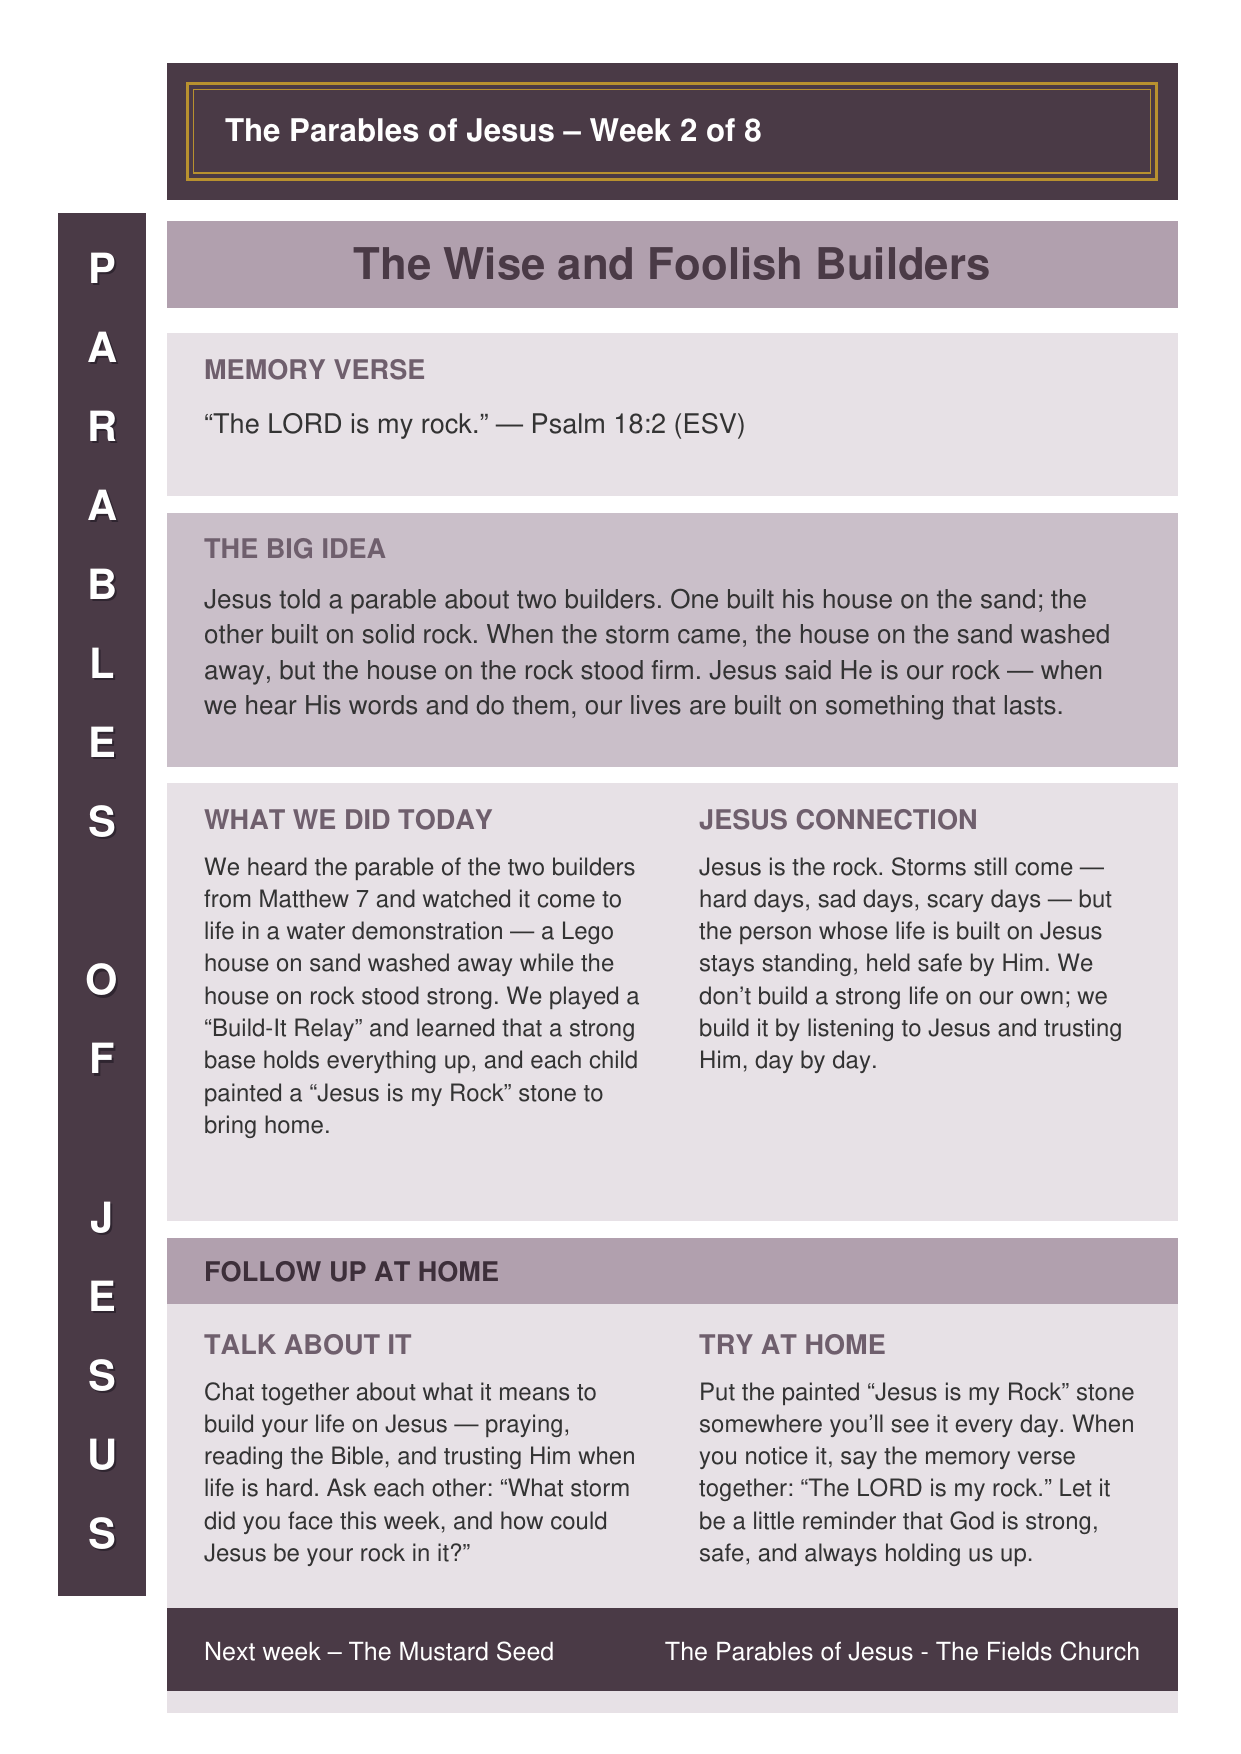
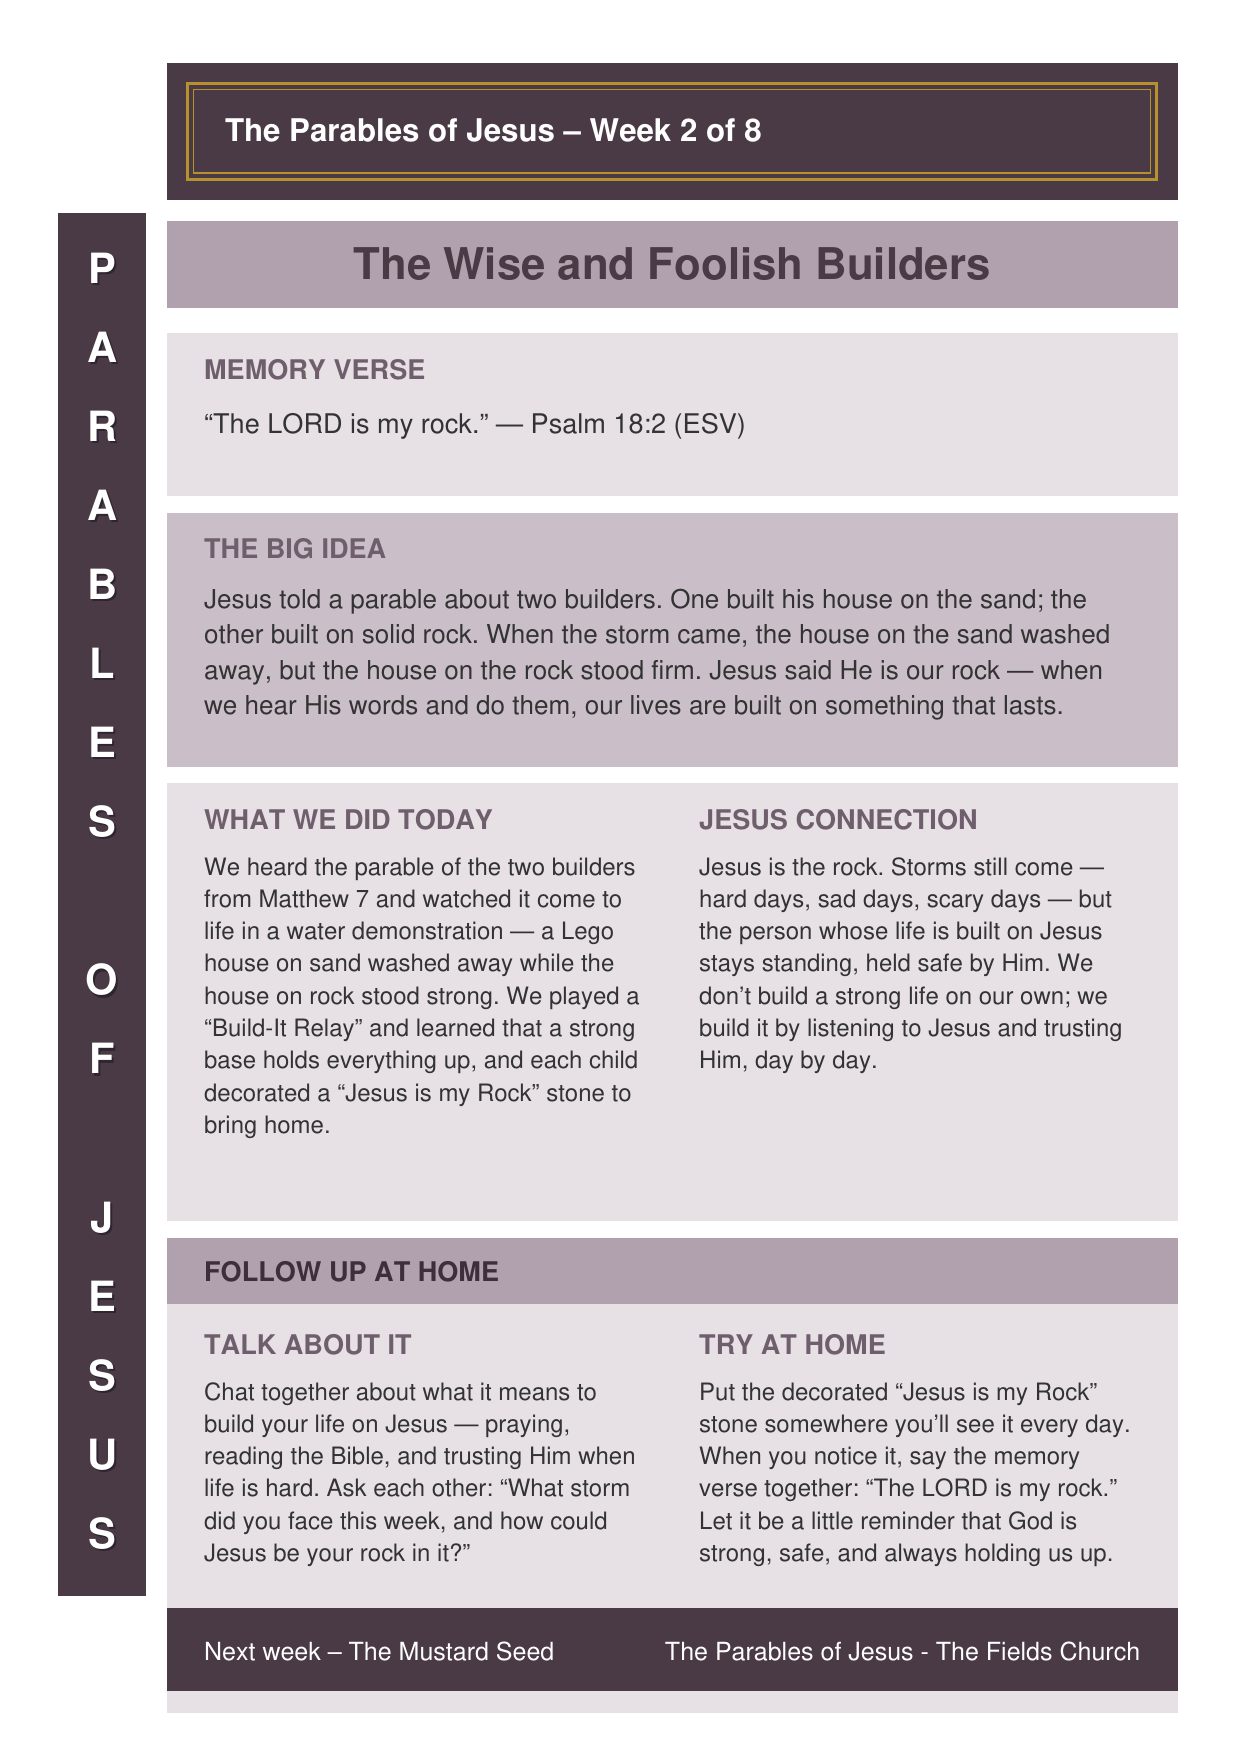
Update craft

Changed region(s): [[0.5512, 0.7697, 0.9186, 0.8928], [0.1837, 0.6157, 0.4899, 0.6465]]

diff --git a/Parables-of-Jesus/week-2.html b/Parables-of-Jesus/week-2.html
@@ -220,7 +220,7 @@
     <div class="segment seg-craft">
       <div class="segment-header">
         <div class="seg-icon">&#127912;</div>
-        <div class="seg-header-title">Craft &ndash; &ldquo;Jesus is my Rock&rdquo; Painted Stone</div>
+        <div class="seg-header-title">Craft &ndash; &ldquo;Jesus is my Rock&rdquo; Decorated Stone</div>
         <div class="seg-time">10 min</div>
       </div>
       <div class="segment-body">
@@ -298,31 +298,36 @@
             setBtn();
           })();
         </script>
-        <p style="margin-top:14px;">Each child paints a real stone and glues it onto a verse card to take home &mdash;
-          a solid little reminder that <strong>Jesus is our rock.</strong></p>
+        <p style="margin-top:14px;">Each child decorates a real stone with coloured markers and sticks it onto a verse
+          card to take home &mdash; a solid little reminder that <strong>Jesus is our rock.</strong></p>
+
+        <div class="leader-note"><strong>Time-saver:</strong> We&rsquo;re using coloured permanent markers rather than
+          paint so there&rsquo;s no waiting for anything to dry &mdash; the children can decorate and stick their stone
+          down straight away.</div>
 
         <h3>Before the Session</h3>
         <ul>
-          <li>Collect a smooth, flat-ish stone for each child (big enough to paint, small enough to glue on a card).</li>
+          <li>Collect a smooth, flat-ish stone for each child (big enough to decorate, small enough to stick on a
+            card).</li>
           <li>Print the verse cards (below) onto stiff card, one per child, and have strong glue (PVA or a glue dot)
             ready.</li>
-          <li>Set out paints or paint pens and cover the table.</li>
+          <li>Set out coloured permanent markers and cover the table.</li>
         </ul>
 
         <h3>Materials (per child)</h3>
         <ul>
           <li>One smooth stone</li>
-          <li>Paints or paint pens and a brush</li>
+          <li>Coloured permanent markers</li>
           <li>A printed &ldquo;Jesus is my Rock&rdquo; verse card (on stiff card)</li>
           <li>Strong glue or a glue dot</li>
         </ul>
 
         <h3>Steps</h3>
         <ol>
-          <li>Paint and decorate the stone however you like &mdash; the older children could add the word
-            &ldquo;ROCK&rdquo; or a cross.</li>
-          <li>Let it dry for a few minutes (this is a good moment to say the memory verse together).</li>
-          <li>Glue the painted stone onto the verse card, in the space provided.</li>
+          <li>Decorate the stone however you like with the coloured markers &mdash; the older children could add the
+            word &ldquo;ROCK&rdquo; or a cross.</li>
+          <li>Say the memory verse together while everyone finishes decorating.</li>
+          <li>Stick the decorated stone onto the verse card, in the space marked &ldquo;Stick your rock here&rdquo;.</li>
           <li>Take it home and put it somewhere it will be seen &mdash; a reminder that the LORD is our rock.</li>
         </ol>
 
